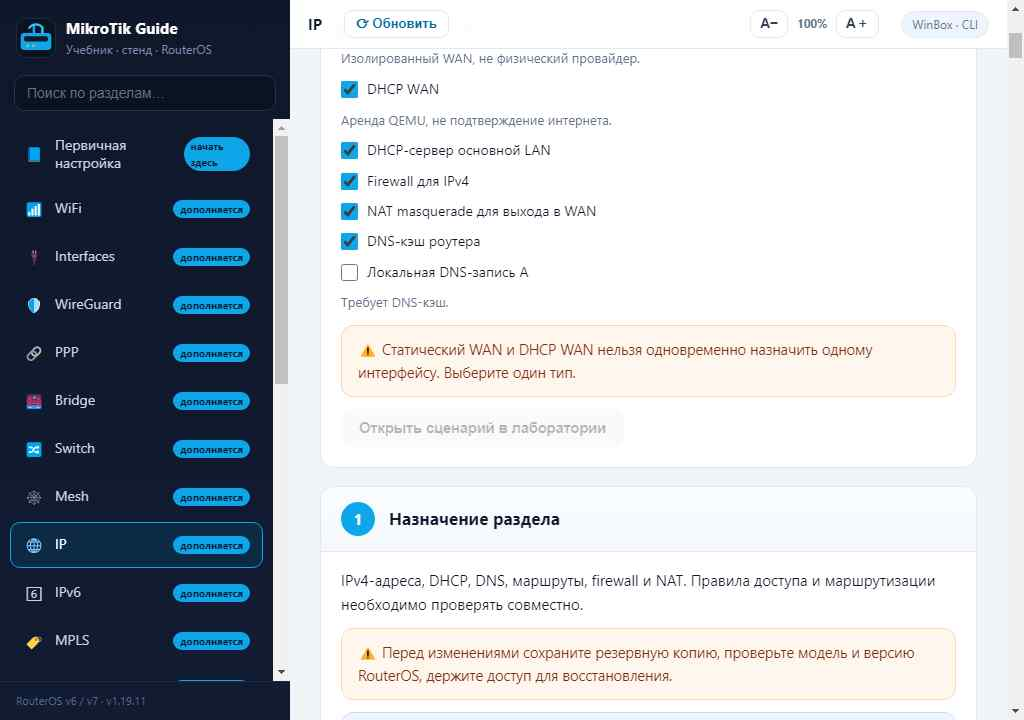
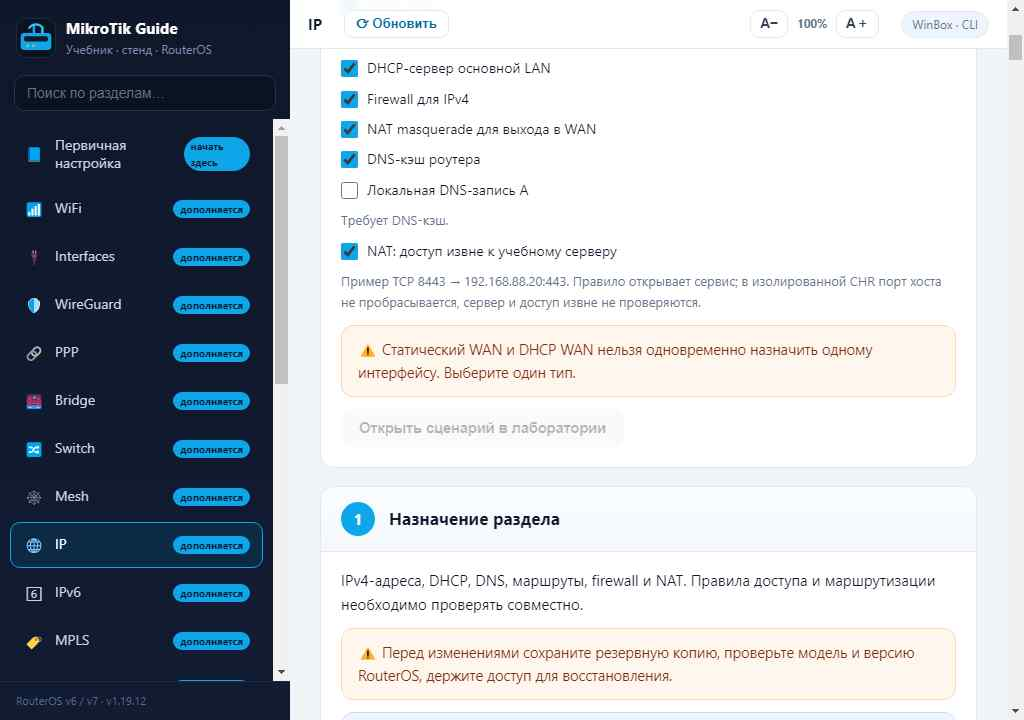
Document and illustrate verified NAT scenario; diagnose WinBox OCR

Changed region(s): [[0.3125, 0.0611, 0.9062, 0.4278]]

diff --git a/tools/test-winbox-scheme-ocr.js b/tools/test-winbox-scheme-ocr.js
@@ -36,10 +36,10 @@ const {ChrSession}=mod.exports;let session,dom;
   const helper='test-winbox-scheme-ocr.ps1';
   const p=spawn('powershell.exe',['-NoProfile','-NonInteractive','-ExecutionPolicy','Bypass','-File',path.join(__dirname,helper)],{env,stdio:['pipe','pipe','ignore'],windowsHide:true});
   p.stdin.on('error',()=>{});p.stdin.end(JSON.stringify({port:info.ciWinboxPort,password:info.password})+'\n');
-  let stage='unknown';p.stdout.on('data',data=>{const m=String(data).match(/CI_STAGE=(start|window|login-input|workspace|ip-menu|addresses-menu|screenshot|dhcp-client|address-detail|print-window|verified-workspace-no-uia|authentication-unconfirmed)/);if(m)stage=m[1];});
+  let stage='unknown',reason='unspecified';p.stdout.on('data',data=>{const text=String(data);const m=text.match(/CI_STAGE=(address-detail-ocr|address-row-ocr|start|window|login-input|workspace|ip-menu|addresses-menu|screenshot|dhcp-client|address-detail|print-window|verified-workspace-no-uia|authentication-unconfirmed)/);if(m)stage=m[1];const r=text.match(/CI_REASON=(negative-target|row-missing-or-ambiguous|row-outside-window|detail-unconfirmed|other)/);if(r)reason=r[1];});
   const timer=setTimeout(()=>{p.kill();reject(Error('WinBox GUI timeout at '+stage));},120000);
   p.once('error',()=>{clearTimeout(timer);reject(Error('WinBox GUI automation failed'));});
-  p.once('exit',code=>{clearTimeout(timer);code===0?resolve():reject(Error('WinBox GUI did not complete at '+stage+'; no screenshot exported'));});
+  p.once('exit',code=>{clearTimeout(timer);code===0?resolve():reject(Error('WinBox GUI did not complete at '+stage+' ('+reason+'); no screenshot exported'));});
  });
  const picture=path.join(process.env.RUNNER_TEMP,'lab-scheme-winbox.jpg');assert(fs.existsSync(picture)&&fs.statSync(picture).size>5000);if(kind==='dhcp'){const p=path.join(process.env.RUNNER_TEMP,'lab-scheme-dhcp.jpg');assert(fs.existsSync(p)&&fs.statSync(p).size>5000);}
  if(process.env.CI_DETAIL_NAV==='1'){const p=path.join(process.env.RUNNER_TEMP,'lab-scheme-detail.jpg');assert(fs.existsSync(p)&&fs.statSync(p).size>5000);}

diff --git a/docs/guide-lab.md b/docs/guide-lab.md
@@ -4,16 +4,18 @@
 
 На страницах учебника есть «Проверить на стенде». Нажатие раскрывает доступные функции и ограничения. Подготовленные сценарии есть для первичной настройки и разделов IP, Interfaces, Bridge, Routing и System; в каждой карточке перечислены только выбранные функции, но создаётся и необходимая учебная основа. Wi-Fi, VPN, PPPoE, динамические маршруты, IP Cloud и другие неподдерживаемые функции не переносятся: рядом объясняется почему. Для остальных разделов предлагается честное сообщение о том, что сценарий ещё не реализован; не выдавать этот переход за поддержку всех разделов.
 
-Строится **новая** изолированная схема из одного учебного провайдера, одного MikroTik и ПК. Для гостевого VLAN добавляется второй ПК. В разделах Interfaces, Bridge, Routing и System дополнительно создаются базовые DHCP LAN, Firewall, NAT и DNS-кэш; в первичной настройке и IP они показаны в списке выбора. Адрес статического WAN `198.51.100.2/30` и NTP `192.0.2.123` учебные; NTP синхронизацию не проверяет. Клиентские компьютеры и провайдеры в CHR не запускаются как отдельные виртуальные машины.
+Строится **новая** изолированная схема из одного учебного провайдера, одного MikroTik и ПК. Для гостевого VLAN добавляется второй ПК. В разделах Interfaces, Bridge, Routing и System дополнительно создаются базовые DHCP LAN, Firewall, NAT и DNS-кэш; в первичной настройке и IP они показаны в списке выбора. Адрес статического WAN `198.51.100.2/30` и NTP `192.0.2.123` учебные; NTP синхронизацию не проверяет. Выбор учебной публикации в разделе IP добавляет сервер 192.168.88.20/24 и правила TCP 8443 → 443. Этот выбор требует Firewall и NAT. Клиентские компьютеры, сервер и провайдеры в CHR не запускаются как отдельные виртуальные машины; порт Windows не пробрасывается и доступ извне не проверяется.
 
 Проверка схемы — учебная модель. На Windows можно отдельно нажать «Открыть CHR» в результатах и после независимой проверки плана в main-процессе, согласия и ознакомления с лицензией запустить настройки в **настоящей виртуальной** RouterOS. По умолчанию WAN изолирован. Физический MikroTik не затрагивается; Android и браузер пока только моделируют. Результат открытия — WebFig, а не WinBox. Автоматические снимки WinBox для пользовательской схемы пока отсутствуют.
 
 ## Предотвращение конфликтов
 
-Выбор валидируется до замены схемы. Статический WAN и DHCP на одном порту несовместимы; VLAN требует Firewall, DHCP гостевой сети — VLAN, локальная DNS-запись — DNS-кэш. Учебная модель с WAN сейчас требует NAT, а в этом сценарии NAT дополнительно требует Firewall как политика безопасности. При конфликте причина отображается, кнопка перехода отключается; никто не удаляет и не заменяет текущую схему. Недоступная функция не может быть выбрана, рядом указана причина. Если схема уже существует, её замена требует явного подтверждения; отмена оставляет данные нетронутыми. После создания лаборатория проверяет всю модель и Windows-компонент повторно строит план; никаких команд из учебника renderer не передаёт.
+Выбор валидируется до замены схемы. Статический WAN и DHCP на одном порту несовместимы; VLAN требует Firewall, DHCP гостевой сети — VLAN, локальная DNS-запись — DNS-кэш, публикация сервера — Firewall. Учебная модель с WAN сейчас требует NAT, а в этом сценарии NAT дополнительно требует Firewall как политика безопасности. При конфликте причина отображается, кнопка перехода отключается; никто не удаляет и не заменяет текущую схему. Недоступная функция не может быть выбрана, рядом указана причина. Если схема уже существует, её замена требует явного подтверждения; отмена оставляет данные нетронутыми. После создания лаборатория проверяет всю модель и Windows-компонент повторно строит план; никаких команд из учебника renderer не передаёт.
 
 ## Проверки и дальнейшая работа
 
 `tools/test-guide-lab.js` перебирает все комбинации поддерживаемых чекбоксов и проверяет конфликты, отсутствие побочного запуска, отмену замены, модель и приватный план CHR. `.github/workflows/windows-guide-lab-chr.yml` выполняет несколько конкретных сценариев через интерфейс в одноразовой виртуальной CHR, её REST-верификатор и удаление временного диска. Это не доказательство работы каждой комбинации на реальном оборудовании или в установленном EXE. Добавлять оставшиеся разделы можно только после реализации и реальных проверок; не заменять выбранные функции похожими настройками и не отправлять частичный план при ошибке.
 
 [CI 41301094700](https://github.com/zigorminsk-debug/mikrotik/actions/runs/41301094700) проверил пять отдельных сценариев, выбранных через UI (IP с DNS-записью, DHCP WAN, VLAN с гостевым DHCP, System с именем/NTP и статический маршрут): для каждого создана отдельная CHR, план применён и сверяется REST, временный диск удалён. Это не проверка физического провайдера, клиента, интернета, реальной синхронизации NTP, достижимости маршрута или установленного EXE. [CI 41301203228](https://github.com/zigorminsk-debug/mikrotik/actions/runs/41301203228) снял выбор и блокировку конфликта на Windows Electron без запуска CHR; снимки визуально проверены и добавлены в учебник.
+
+[CI 41303022807](https://github.com/zigorminsk-debug/mikrotik/actions/runs/41303022807) в сценарии IP применил к одноразовой CHR и проверил через REST правила dstnat и forward для учебной публикации; сервис и внешние соединения не проверялись. [CI 41303022826](https://github.com/zigorminsk-debug/mikrotik/actions/runs/41303022826) снял выбор с публикацией и конфликт WAN в Windows Electron без запуска CHR; изображения визуально проверены. Это не WinBox.

diff --git a/docs/HANDOFF.md b/docs/HANDOFF.md
@@ -13,7 +13,7 @@
 
 ## В работе: публикация NAT в учебном IP-сценарии
 
-В 1.19.12 выбор раздела IP дополнен пунктом «NAT: доступ извне к учебному серверу»: создаётся статический сервер 192.168.88.20/24 и пример TCP 8443 → 443, план RouterOS должен содержать dstnat и разрешение forward. Отсутствие Firewall блокирует выбор с объяснением. Выбор не открывает порт Windows, сервер и вход извне не проверяются; CI, скриншоты и выпуск ещё выполняются. Тесты всех наборов, CHR matrix и документация — `docs/guide-lab.md`. Новое независимое исследование OCR-навигации WinBox только на CI; его исход нужно проверить и визуально оценить, не переносить координатную автоматику в продукт.
+В 1.19.12 выбор раздела IP дополнен пунктом «NAT: доступ извне к учебному серверу»: создаётся статический сервер 192.168.88.20/24 и пример TCP 8443 → 443, план RouterOS должен содержать dstnat и разрешение forward. Отсутствие Firewall блокирует выбор с объяснением. Выбор не открывает порт Windows, сервер и вход извне не проверяются. [CHR matrix 41303022807](https://github.com/zigorminsk-debug/mikrotik/actions/runs/41303022807) и [снимки 41303022826](https://github.com/zigorminsk-debug/mikrotik/actions/runs/41303022826) прошли, снимки приложения визуально проверены; Build 41303022818 прошёл, выпуск ещё предстоит. Тесты всех наборов и ограничения — `docs/guide-lab.md`. Исследование OCR-навигации WinBox [41302910849](https://github.com/zigorminsk-debug/mikrotik/actions/runs/41302910849) не сняло изображение: этап был неизвестен из-за неполного распознавания меток; причина неизвестна. Для следующего CI исправлены диагностические метки, не переносить координатную автоматику в продукт.
 
 ## Новый запрос: проверка раздела учебника на стенде
 

diff --git a/docs/NEXT.md b/docs/NEXT.md
@@ -7,7 +7,7 @@
 
 ## В работе: NAT из раздела IP и поиск настройки WinBox
 
-В коде 1.19.12 добавлен выбор учебной публикации TCP 8443 → сервер 192.168.88.20:443 из раздела IP, с отдельным правилом firewall. Публикация требует Firewall, сервер не запускается и вход на Windows-хост не пробрасывается. В выпуске описать и проверить точные правила на реальной одноразовой CHR; выпуск и CI в процессе. Параллельно CI исследует выбор строки WinBox по OCR при поиске конкретного LAN-адреса; до завершения и визуальной проверки результат неизвестен. Это исследование не реализует автоматические снимки в приложении.
+В коде 1.19.12 добавлен выбор учебной публикации TCP 8443 → сервер 192.168.88.20:443 из раздела IP, с отдельным правилом firewall. Публикация требует Firewall, сервер не запускается и вход на Windows-хост не пробрасывается. IP-сценарий проверен в одноразовой CHR через REST: [CI 41303022807](https://github.com/zigorminsk-debug/mikrotik/actions/runs/41303022807); сервис и вход извне не проверялись. Снимки Windows-интерфейса [CI 41303022826](https://github.com/zigorminsk-debug/mikrotik/actions/runs/41303022826) проверены визуально; это не WinBox. Веточный Build 41303022818 прошёл; выпуск ещё предстоит. Исследование выбора строки WinBox по OCR [CI 41302910849](https://github.com/zigorminsk-debug/mikrotik/actions/runs/41302910849) не завершило съёмку: этап в диагностике не распознан, снимок не экспортирован. Исправлены метки этапов для следующего CI, причина пока неизвестна. Это исследование не реализует автоматические снимки в приложении.
 
 ## Новый запрос пользователя: сценарии по разделам учебника
 

diff --git a/docs/releases/1.19.12.md b/docs/releases/1.19.12.md
@@ -4,4 +4,5 @@
 - Открытие сервиса наружу требует отдельной оценки безопасности. Учебный сервер не запускается как VM; в изолированной CHR порт Windows-хоста не пробрасывается, физический провайдер, публичный IP и доступ из интернета не проверяются. Подключение к физическому MikroTik и применение настроек не реализованы.
 - Выбор проверяет комбинации до замены схемы и требует подтверждение для замены прежней. Windows может отдельно запустить поддержанную схему на виртуальной CHR с лицензией и согласиями; Android и браузер показывают только модель. Некоторые разделы всё ещё не поддерживаются.
 - Автоматические оригинальные снимки WinBox всех настроек конкретной схемы ещё не реализованы; статические иллюстрации и эксперименты CI не заменяют их.
+- Windows CI [41303022807](https://github.com/zigorminsk-debug/mikrotik/actions/runs/41303022807) проверил выбранные настройки на одноразовой CHR через REST, включая правила публикации. [41303022826](https://github.com/zigorminsk-debug/mikrotik/actions/runs/41303022826) получил снимки приложения с выбором и конфликтом без запуска CHR; это не WinBox. Веточный Build [41303022818](https://github.com/zigorminsk-debug/mikrotik/actions/runs/41303022818) прошёл, локально проверены 43 допустимых и 301 конфликтных набора. Установленный EXE по этому сценарию, сервер и вход извне не проверены.
 - Ключ подписи APK намеренно хранится в репозитории по требованию владельца, он публичен и не доказывает авторство. Устанавливайте только из доверенного источника.

diff --git a/app/assets/img/own/SOURCES.md b/app/assets/img/own/SOURCES.md
@@ -58,4 +58,4 @@
 
 `chr-checked-result-windows.jpg` — оригинальный снимок окна Windows Electron после проверки учебной схемы в [CI 41298198916](https://github.com/zigorminsk-debug/mikrotik/actions/runs/41298198916). Интерфейс Windows подменён тестом, CHR, WinBox и сеть не запускались. Изображение проверено визуально, это не снимок WinBox и не пользовательская схема.
 
-`guide-lab-selection-windows.jpg` и `guide-lab-conflict-windows.jpg` — оригинальные снимки Windows Electron приложения из [CI 41301203228](https://github.com/zigorminsk-debug/mikrotik/actions/runs/41301203228). Тест раскрыл выбор функций в разделе IP и затем одновременно отметил статический и DHCP WAN; кнопка перехода отключилась. CHR, WinBox, реальный интернет и физический роутер не запускались. Это не снимки WinBox; оба кадра визуально проверены.
+`guide-lab-selection-windows.jpg` и `guide-lab-conflict-windows.jpg` — оригинальные снимки Windows Electron приложения из [CI 41303022826](https://github.com/zigorminsk-debug/mikrotik/actions/runs/41303022826). Тест раскрыл выбор функций в разделе IP, отметил учебную публикацию NAT и затем одновременно отметил статический и DHCP WAN; кнопка перехода отключилась. CHR, WinBox, реальный интернет и физический роутер не запускались. Это не снимки WinBox; оба кадра визуально проверены.

diff --git a/docs/screenshot-audit.md b/docs/screenshot-audit.md
@@ -407,7 +407,7 @@
 
 ### Публикация сервера в графической лаборатории
 
-**Изображения в подразделе:** нет.
+**Изображения в подразделе:** `assets/img/own/guide-lab-selection-windows.jpg` — Оригинальный снимок выбора в Windows-приложении с учебным NAT. Это не WinBox; CHR и сервер ещё не запускались..
 
 - [ ] Добавьте MikroTik, провайдера и ПК или сервер. Подключите сервер к MikroTik напрямую либо через коммутатор первой сетевой картой. — отдельный снимок к пункту не сопоставлен.
 - [ ] В настройках сервера укажите статический LAN-адрес вне DHCP-пула и соответствующий шлюз. Например, 192.168.88.20/24 и 192.168.88.1. Эти адреса являются учебными. — отдельный снимок к пункту не сопоставлен.
